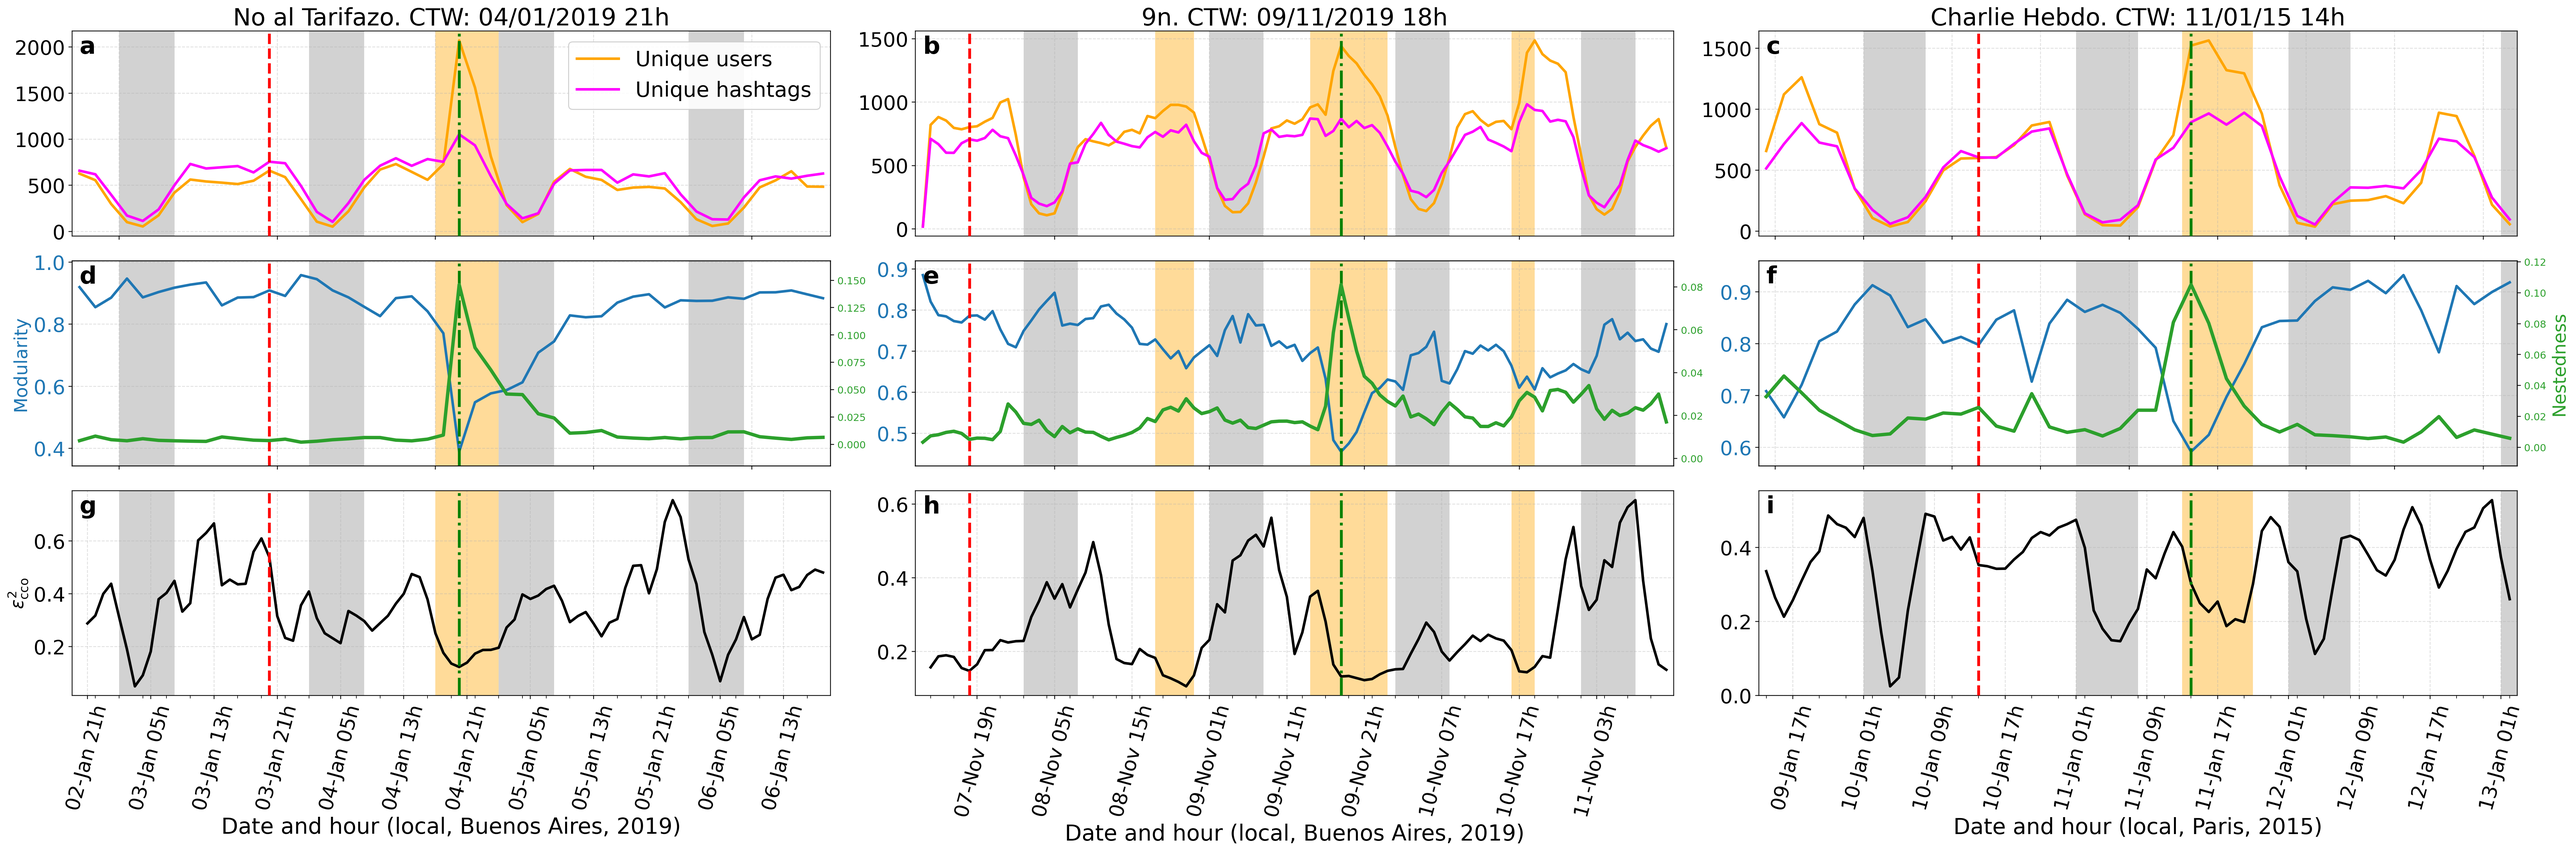
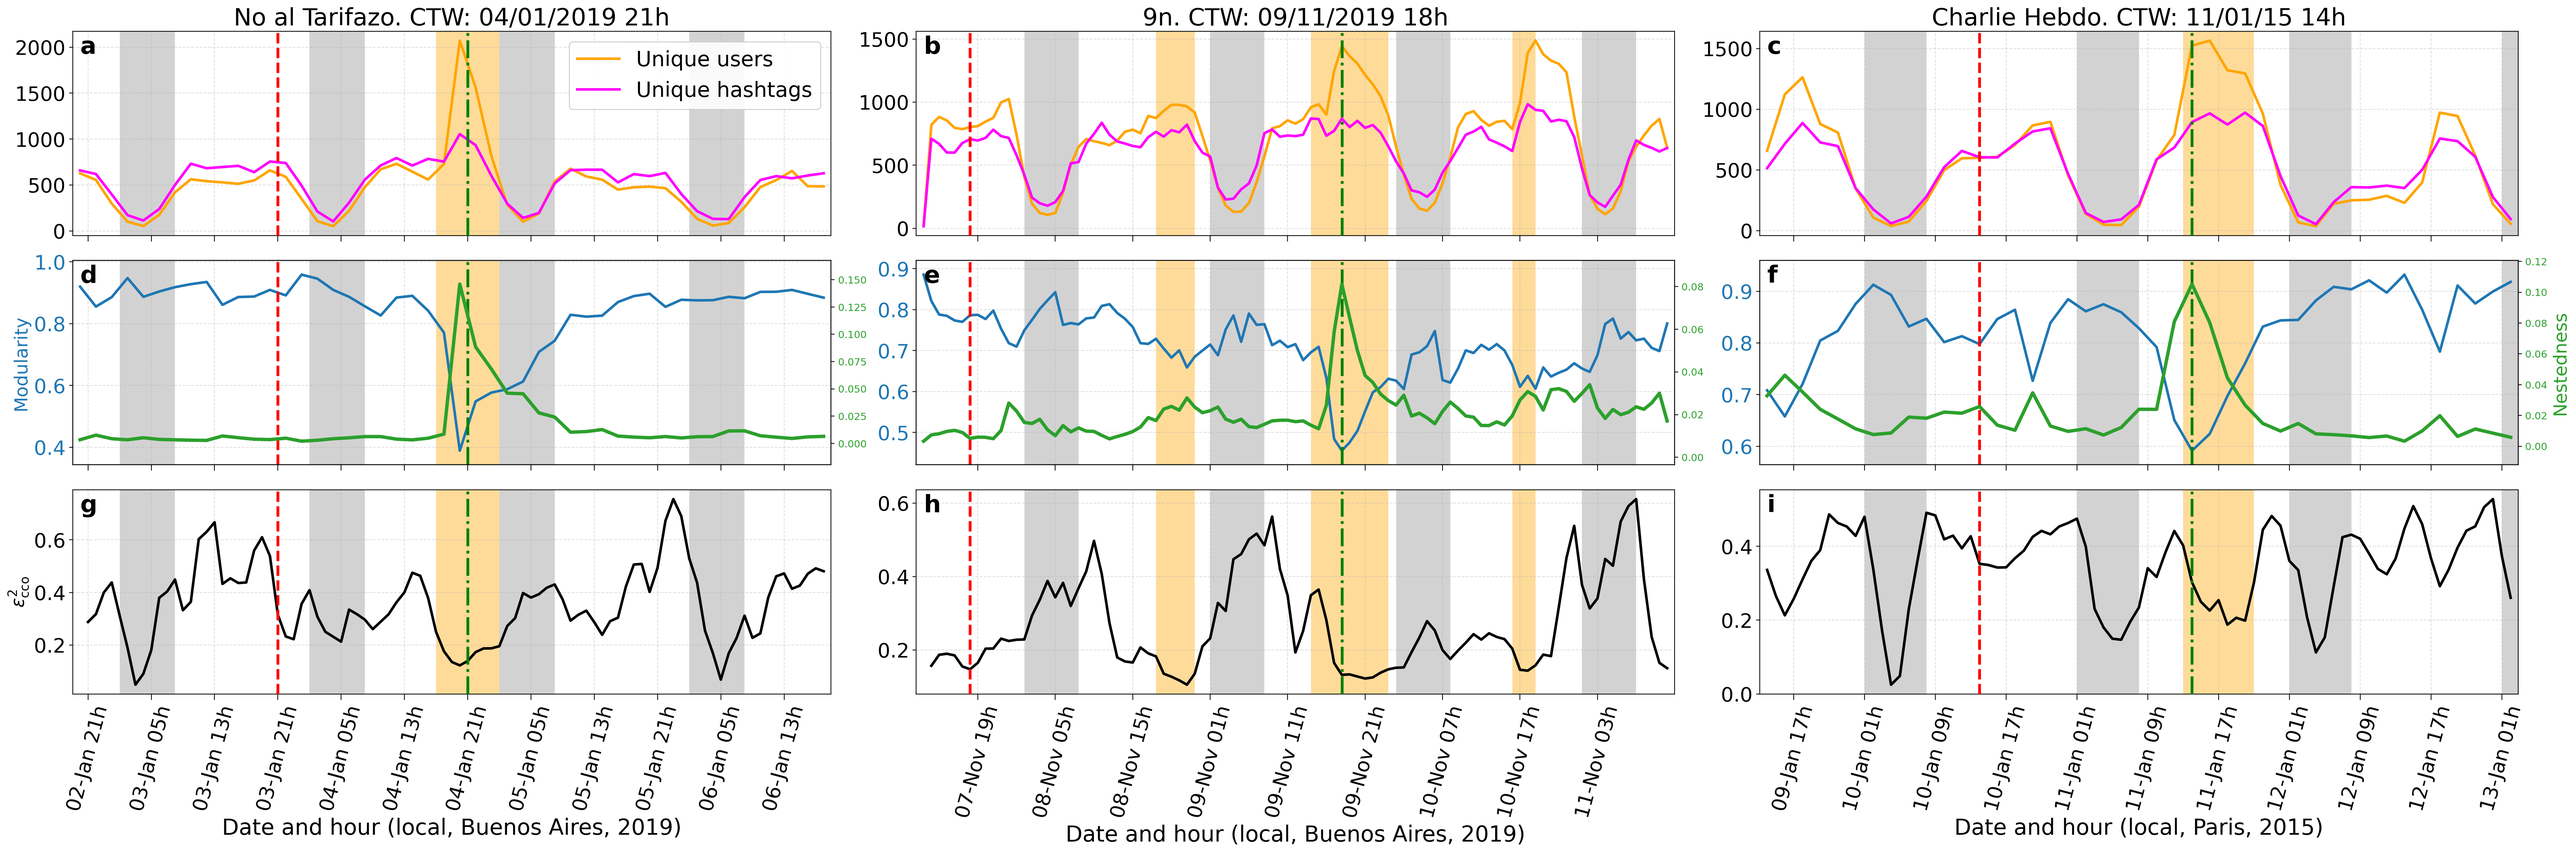
fixed fig2

diff --git a/new_plots_review/fig2_plots.py b/new_plots_review/fig2_plots.py
@@ -19,20 +19,26 @@ from zoneinfo import ZoneInfo
 import matplotlib.pyplot as plt
 import numpy as np
 import pandas as pd
-from matplotlib.ticker import MaxNLocator
+from matplotlib.ticker import FixedLocator, MaxNLocator, NullLocator
 
-from config import FIGURES_DIR, REPO_ROOT, RESULTS_DIR, TIMEZONE, ensure_dirs
+from config import FIGURES_DIR, HORA_CRITICA, REPO_ROOT, RESULTS_DIR, TIMEZONE, ensure_dirs
 
 # ---------------------------------------------------------------------------
 # Constants
 # ---------------------------------------------------------------------------
 
-HORA_CRITICA = {"nat": 429623, "9n": 437037, "ch": 394717}
 # Comparison hours from latex_self_similarity.ipynb (hours before CTW)
 OTRA_HORA = {
     "nat": HORA_CRITICA["nat"] - 24,
     "9n": HORA_CRITICA["9n"] - 48,
     "ch": HORA_CRITICA["ch"] - 24,
+}
+
+# Expected CTW local times (must match COLUMN_TITLES)
+EXPECTED_CTW_LOCAL = {
+    "nat": (2019, 1, 4, 21),
+    "9n": (2019, 11, 9, 18),
+    "ch": (2015, 1, 11, 14),
 }
 
 MANIFESTATION_ORDER = ["nat", "9n", "ch"]
@@ -99,6 +105,7 @@ COLOR_GREY_BAND = "gray"
 COLOR_ORANGE_BAND = "orange"
 
 MA_WINDOW = 3
+X_TICK_LENGTH = 6
 
 
 @dataclass(frozen=True)
@@ -288,10 +295,57 @@ def _apply_otra_hora(ax, manifestation: str) -> None:
     )
 
 
-def _format_xaxis(ax, manifestation: str, show_label: bool = True) -> None:
+def _hour_to_local(hour: int, manifestation: str) -> dt.datetime:
     tz_name = TIMEZONE[manifestation]
-    city = CITY_LABEL[manifestation]
-    year = X_LABEL_YEAR[manifestation]
+    return dt.datetime.fromtimestamp(int(hour) * 3600, tz=ZoneInfo("UTC")).astimezone(
+        ZoneInfo(tz_name)
+    )
+
+
+def _apply_x_tick_style(ax, show_tick_labels: bool) -> None:
+    ax.tick_params(
+        axis="x",
+        which="major",
+        labelsize=20,
+        rotation=75,
+        length=X_TICK_LENGTH,
+        bottom=True,
+        labelbottom=show_tick_labels,
+    )
+    ax.tick_params(axis="x", which="minor", length=0, bottom=False)
+
+
+def verify_ctw_local_times() -> None:
+    """Assert CTW hour indices map to the local times stated in column titles."""
+    for manifestation, (year, month, day, hour) in EXPECTED_CTW_LOCAL.items():
+        local = _hour_to_local(HORA_CRITICA[manifestation], manifestation)
+        expected = (local.year, local.month, local.day, local.hour)
+        assert expected == (year, month, day, hour), (
+            f"{manifestation}: CTW hour {HORA_CRITICA[manifestation]} "
+            f"maps to local {local:%Y-%m-%d %Hh} ({TIMEZONE[manifestation]}), "
+            f"expected {day:02d}/{month:02d}/{year} {hour:02d}h"
+        )
+
+
+def verify_column_xticks(
+    ax_top: plt.Axes,
+    ax_mid: plt.Axes,
+    ax_bottom: plt.Axes,
+) -> None:
+    """Assert aligned major ticks, visible marks, labels only on bottom row."""
+    ticks = [ax.get_xticks() for ax in (ax_top, ax_mid, ax_bottom)]
+    assert np.allclose(ticks[0], ticks[1]) and np.allclose(ticks[1], ticks[2])
+    for ax in (ax_top, ax_mid, ax_bottom):
+        assert not list(ax.xaxis.get_minorticklocs())
+    for ax in (ax_top, ax_mid):
+        assert all(t.get_text() == "" for t in ax.get_xticklabels())
+        assert ax.xaxis.get_major_ticks()[0].tick1line.get_visible()
+    assert any(t.get_text() for t in ax_bottom.get_xticklabels())
+    assert ax_bottom.xaxis.get_major_ticks()[0].tick1line.get_visible()
+
+
+def _local_tick_formatter(manifestation: str) -> plt.FuncFormatter:
+    tz_name = TIMEZONE[manifestation]
 
     def _local_tick(x_val, _pos):
         local = dt.datetime.fromtimestamp(int(x_val) * 3600, tz=ZoneInfo("UTC")).astimezone(
@@ -299,20 +353,62 @@ def _format_xaxis(ax, manifestation: str, show_label: bool = True) -> None:
         )
         return local.strftime("%d-%b %Hh")
 
-    ax.xaxis.set_major_formatter(plt.FuncFormatter(_local_tick))
+    return plt.FuncFormatter(_local_tick)
+
+
+def _format_xaxis(
+    ax,
+    manifestation: str,
+    show_label: bool = True,
+    show_tick_labels: bool = True,
+) -> List[float]:
+    """Configure x-axis ticks; return major tick positions."""
+    city = CITY_LABEL[manifestation]
+    year = X_LABEL_YEAR[manifestation]
+
+    ax.xaxis.set_major_formatter(_local_tick_formatter(manifestation))
     ax.xaxis.set_major_locator(MaxNLocator(nbins=12, integer=True))
-    ax.xaxis.set_minor_locator(MaxNLocator(nbins=40, integer=True))
-    ax.tick_params(axis="x", which="major", labelsize=20, rotation=75, length=0, bottom=False)
-    ax.tick_params(axis="x", which="minor", length=0, bottom=False)
+    ax.xaxis.set_minor_locator(NullLocator())
+    _apply_x_tick_style(ax, show_tick_labels)
     if show_label:
         ax.set_xlabel(f"Date and hour (local, {city}, {year})", fontsize=22)
+
+    ax.figure.canvas.draw()
+    return list(ax.get_xticks())
+
+
+def _apply_fixed_xaxis(
+    ax,
+    manifestation: str,
+    tick_locs: List[float],
+    show_tick_labels: bool = False,
+) -> None:
+    """Apply fixed major x-ticks (no minors, optional labels)."""
+    ax.xaxis.set_major_locator(FixedLocator(tick_locs))
+    ax.xaxis.set_major_formatter(_local_tick_formatter(manifestation))
+    ax.xaxis.set_minor_locator(NullLocator())
+    _apply_x_tick_style(ax, show_tick_labels)
+
+
+def _sync_column_xticks(
+    ax_top: plt.Axes,
+    ax_mid: plt.Axes,
+    ax_bottom: plt.Axes,
+    manifestation: str,
+) -> None:
+    """Align all three row axes to the bottom row's labeled major ticks."""
+    tick_locs = _format_xaxis(
+        ax_bottom, manifestation, show_label=True, show_tick_labels=True
+    )
+    _apply_fixed_xaxis(ax_top, manifestation, tick_locs, show_tick_labels=False)
+    _apply_fixed_xaxis(ax_mid, manifestation, tick_locs, show_tick_labels=False)
+    _apply_fixed_xaxis(ax_bottom, manifestation, tick_locs, show_tick_labels=True)
 
 
 def _style_axis(ax, panel_label: Optional[str] = None) -> None:
     ax.grid(True, linestyle="--", alpha=0.4)
     ax.margins(x=0.01)
-    ax.tick_params(axis="both", which="major", labelsize=20)
-    ax.tick_params(axis="x", which="both", length=0, bottom=False)
+    ax.tick_params(axis="y", which="major", labelsize=20)
     if panel_label:
         ax.text(
             0.01,
@@ -414,7 +510,7 @@ def plot_fig2_column(
     for ax in axes:
         ax.set_xlim(x0 - pad, x1 + pad)
 
-    _format_xaxis(axes[2], manifestation, show_label=True)
+    _sync_column_xticks(axes[0], axes[1], axes[2], manifestation)
 
     if show_legends:
         axes[0].legend(loc=(0.66, 0.65), fontsize=16)
@@ -437,6 +533,7 @@ def plot_fig2_column(
 
 def plot_fig2_combined(variant: VariantConfig, save: bool = True) -> Path:
     """Combined 3×3 figure with panels (a–i)."""
+    verify_ctw_local_times()
     ensure_dirs()
     plt.style.use("seaborn-v0_8-colorblind")
     fig, axes = plt.subplots(3, 3, figsize=(36, 12), dpi=120, sharex=False)
@@ -511,12 +608,14 @@ def plot_fig2_combined(variant: VariantConfig, save: bool = True) -> Path:
         _apply_ctw(ax_c, manifestation)
         _apply_otra_hora(ax_c, manifestation)
         _apply_bands(ax_c, manifestation)
-        _format_xaxis(ax_c, manifestation, show_label=True)
 
         x0, x1 = float(sub["hour"].min()), float(sub["hour"].max())
         pad = 0.01 * (x1 - x0)
         for ax in (ax_a, ax_b, ax_c):
             ax.set_xlim(x0 - pad, x1 + pad)
+
+        _sync_column_xticks(ax_a, ax_b, ax_c, manifestation)
+        verify_column_xticks(ax_a, ax_b, ax_c)
 
     fig.tight_layout()
     out = FIGURES_DIR / f"fig2_combined_{variant.name}_all.png"
